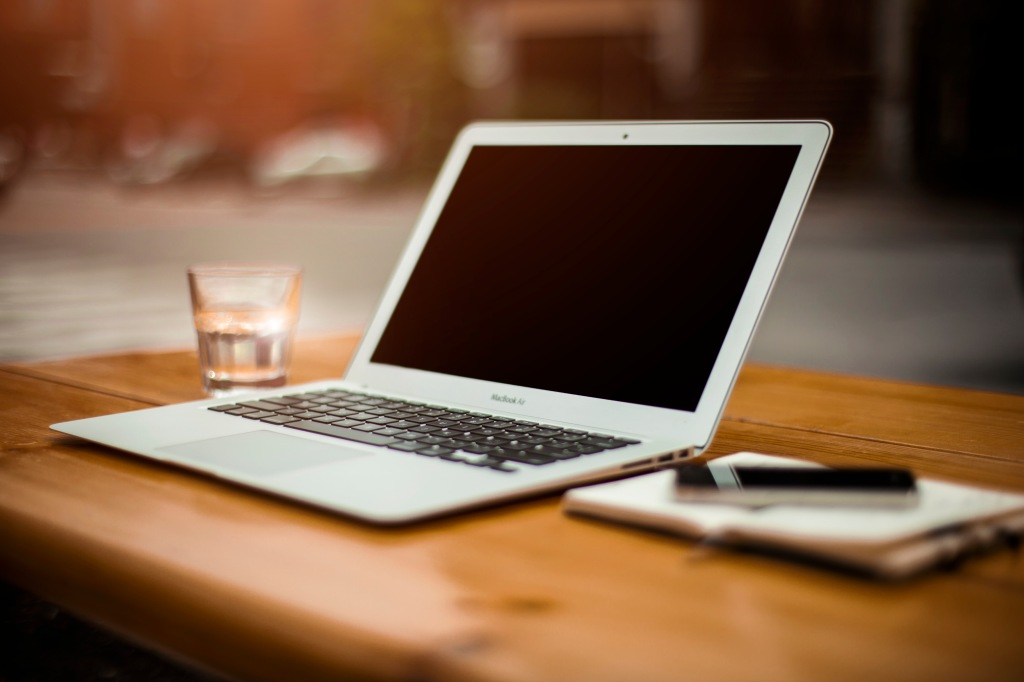
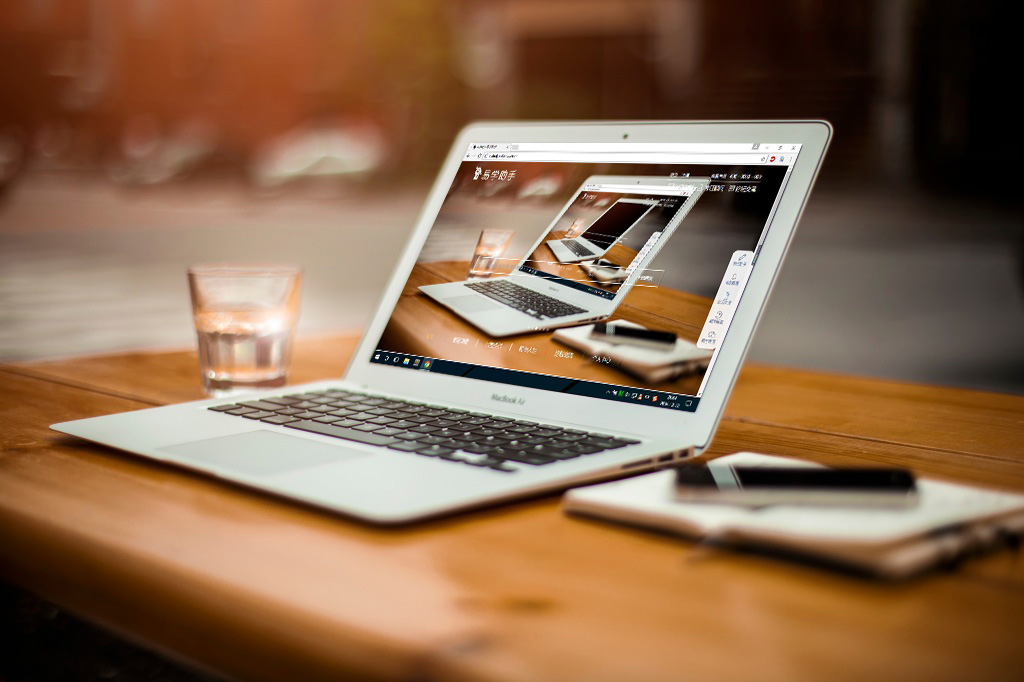
杨绍阳会玩系列

Changed region(s): [[0.3438, 0.1848, 0.7812, 0.6158]]

diff --git a/code/Application/Home/View/Index/index.html b/code/Application/Home/View/Index/index.html
@@ -28,12 +28,13 @@
     -->
     <div class="flicker-example" data-block-text="false" style="position:absolute;z-index:-999">
         <ul>
-            <li data-background="__PUBLIC__/images/banner.jpg"></li>
+            <li data-background="__PUBLIC__/images/banner2.jpg"></li>
+            <li data-background="__PUBLIC__/images/banner6.jpg"></li>
             <li data-background="http://www.lanqiao.org/images/bg0.jpg"></li>
             <li data-background="__PUBLIC__/images/banner4.jpg"></li>
+            <li data-background="__PUBLIC__/images/banner.jpg"></li>
             <li data-background="__PUBLIC__/images/banner5.jpg"></li>
-            <li data-background="__PUBLIC__/images/banner6.jpg"></li>
-            <li data-background="__PUBLIC__/images/banner2.jpg"></li>
+
         </ul>
     </div>
     <div class="mybody">
@@ -267,7 +268,8 @@
                         $sql="select * from blogroll";
                         $sta = $pdo->query($sql);
                         $urls = $sta->fetchAll();
-                        for($i=0;$i<count($urls);$i++){    // 循环读取二维数组中的数据
+                        for($i=0;$i
+                    <count($urls);$i++){    // 循环读取二维数组中的数据
                 ?>
                         <li>
                             <a href="<?php echo $urls[$i]['url'];?>
@@ -282,64 +284,64 @@
         </div>
         <!-- 弹窗 -->
         <!-- <div class="box">
-            <div class="box1">
-                <div class="box2" id="boxclose">
-                    <div style="margin-left:75px;margin-top:50px;">
-                        <div class="box12" style="margin-bottom:10px;">
-                            <h2 style="font-size:25px;">考证提示</h2>
-                        </div>
-
-                        <div class="box11" style="margin-bottom:20px;">
-                            <ul>
-                                <li>
-                                    <a href="#" float: left;>中国创翼2016</a>
-                                    &emsp;&emsp;&emsp;&emsp;
-                                    <span>2016-11-30</span>
-                                </li>
-                                <li>
-                                    <a href="#" float: left;>中国创翼2016</a>
-                                    &emsp;&emsp;&emsp;&emsp;
-                                    <span>2016-11-30</span>
-                                </li>
-                                <li>
-                                    <a href="#" float: left;>中国创翼2016</a>
-                                    &emsp;&emsp;&emsp;&emsp;
-                                    <span>2016-11-30</span>
-                                </li>
-                                <li>
-                                    <a href="#" float: left;>中国创翼2016</a>
-                                    &emsp;&emsp;&emsp;&emsp;
-                                    <span>2016-11-30</span>
-                                </li>
-                            </ul>
-                        </div>
-                        <div  class="box12" style="margin-bottom:10px;">
-                            <h2 style="font-size:25px;">比赛提示</h2>
-                        </div>
-                        <div class="box11">
-                            <ul>
-                                <volist name="MTH" id="vo">
-                                    <li>
-                                        <a href="__MODULE__/match/content?mid={$vo.mid}" float: left;>{$vo.mname}</a>
-                                        <span>{$vo.mtime}</span>
-                                    </li>
-                                </volist>
-                            </ul>
-                        </div>
+        <div class="box1">
+            <div class="box2" id="boxclose">
+                <div style="margin-left:75px;margin-top:50px;">
+                    <div class="box12" style="margin-bottom:10px;">
+                        <h2 style="font-size:25px;">考证提示</h2>
                     </div>
-                    <div style="margin-top:50px;margin-left:140px" onclick="jQuery('.box').hide()">
-                        <button id="close">
-                            <p style="color:white;display: inline-block;padding:7px 20px;background-color: rgb(47,137,187);font-size:18px;">关闭</p>
-                        </button>
+
+                    <div class="box11" style="margin-bottom:20px;">
+                        <ul>
+                            <li>
+                                <a href="#" float: left;>中国创翼2016</a>
+                                &emsp;&emsp;&emsp;&emsp;
+                                <span>2016-11-30</span>
+                            </li>
+                            <li>
+                                <a href="#" float: left;>中国创翼2016</a>
+                                &emsp;&emsp;&emsp;&emsp;
+                                <span>2016-11-30</span>
+                            </li>
+                            <li>
+                                <a href="#" float: left;>中国创翼2016</a>
+                                &emsp;&emsp;&emsp;&emsp;
+                                <span>2016-11-30</span>
+                            </li>
+                            <li>
+                                <a href="#" float: left;>中国创翼2016</a>
+                                &emsp;&emsp;&emsp;&emsp;
+                                <span>2016-11-30</span>
+                            </li>
+                        </ul>
+                    </div>
+                    <div  class="box12" style="margin-bottom:10px;">
+                        <h2 style="font-size:25px;">比赛提示</h2>
+                    </div>
+                    <div class="box11">
+                        <ul>
+                            <volist name="MTH" id="vo">
+                                <li>
+                                    <a href="__MODULE__/match/content?mid={$vo.mid}" float: left;>{$vo.mname}</a>
+                                    <span>{$vo.mtime}</span>
+                                </li>
+                            </volist>
+                        </ul>
                     </div>
                 </div>
+                <div style="margin-top:50px;margin-left:140px" onclick="jQuery('.box').hide()">
+                    <button id="close">
+                        <p style="color:white;display: inline-block;padding:7px 20px;background-color: rgb(47,137,187);font-size:18px;">关闭</p>
+                    </button>
+                </div>
             </div>
-        </div> -->
-
-        <div class="box10" style="display:none" id="box1close">
-            <img src="__PUBLIC__/images/ewm.jpg" width="220" height="220"></div>
+        </div>
+    </div>
+    -->
+    <div class="box10" style="display:none" id="box1close">
+        <img src="__PUBLIC__/images/ewm.jpg" width="220" height="220"></div>
 </body>
-        <script type="text/javascript">
+    <script type="text/javascript">
             window.onload=function(){
                $(document).ready(function(){
                 $('#box1').mouseover(function(){

diff --git a/code/Application/Home/View/Weui/index.html b/code/Application/Home/View/Weui/index.html
@@ -26,13 +26,14 @@
 		<div class="weui_tab_bd">
 			<!--顶部幻灯片-->
 			<div class="swiper-container" data-space-between='10' data-pagination='.swiper-pagination' data-autoplay="1000">
+
 				<div class="swiper-wrapper" >
 					<div class="swiper-slide">
 						<img src="__PUBLIC__/images/a4.jpg" alt=""></div>
 					<div class="swiper-slide">
 						<img src="__PUBLIC__/images/a2.jpg" alt=""></div>
 					<div class="swiper-slide">
-						<img src="__PUBLIC__/images/a3.jpg" alt=""></div>
+						<a href="__MODULE__/weui/values"><img src="__PUBLIC__/images/a3.jpg" alt=""></a></div>
 				</div>
 				<!-- If we need pagination -->
 				<div class="swiper-pagination"></div>

diff --git a/code/Application/Home/View/Match/matchlist.html b/code/Application/Home/View/Match/matchlist.html
@@ -27,7 +27,7 @@
                         <input type="text" placeholder="请输入比赛名称" class="searchtext" name="text">
                         <input type="submit" value="开始搜索" class="searchbutton"></form>
                 </div>
-                            </div>
+            </div>
             <div class="content">
                 <ul class="contentul">
                     <volist name="match" id="vo">
